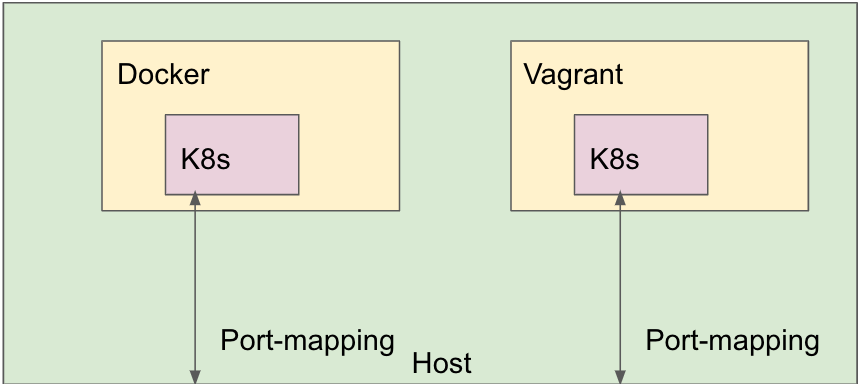
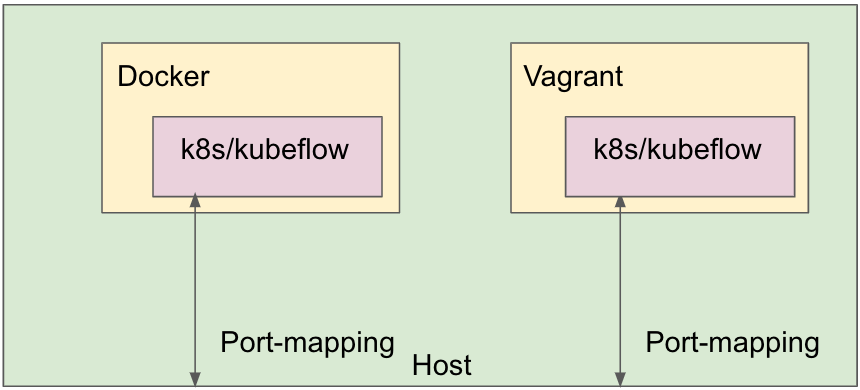
breaking: rename to multikf

Changed region(s): [[0.0, 0.0, 1.0, 1.0], [0.1212, 0.0938, 0.4848, 0.5625], [0.1212, 0.1562, 0.2424, 0.2188]]

diff --git a/cmd/multikf/cmd.go b/cmd/multikf/cmd.go
@@ -1,4 +1,4 @@
-package multikind
+package multikf
 
 import (
 	"errors"
@@ -12,10 +12,10 @@ import (
 	"sigs.k8s.io/kind/pkg/cmd"
 	"sigs.k8s.io/kind/pkg/log"
 
-	"github.com/footprintai/multikind/pkg/machine"
-	_ "github.com/footprintai/multikind/pkg/machine/host"
-	_ "github.com/footprintai/multikind/pkg/machine/vagrant"
-	"github.com/footprintai/multikind/pkg/version"
+	"github.com/footprintai/multikf/pkg/machine"
+	_ "github.com/footprintai/multikf/pkg/machine/host"
+	_ "github.com/footprintai/multikf/pkg/machine/vagrant"
+	"github.com/footprintai/multikf/pkg/version"
 )
 
 var (
@@ -30,9 +30,9 @@ var (
 	kubeconfigPath string // kubeconfig path of a guest machine (default: ./.mulitkind/$machine/kubeconfig)
 
 	rootCmd = &cobra.Command{
-		Use:   "multikind",
-		Short: "a multikind cli tool",
-		Long:  `multikind is a command-line tool which use vagrant and docker to provision k8s single-node cluster.`,
+		Use:   "multikf",
+		Short: "a multikf cli tool",
+		Long:  `multikf is a command-line tool which use vagrant and docker to provision Kubernetes and kubeflow single-node cluster.`,
 		PersistentPreRun: func(cmd *cobra.Command, args []string) {
 			// For cobra + glog flags. Available to all subcommands.
 			goflag.Parse()
@@ -41,7 +41,7 @@ var (
 
 	versionCmd = &cobra.Command{
 		Use:   "version",
-		Short: "version of multikind ",
+		Short: "version of multikf ",
 		RunE: func(cmd *cobra.Command, args []string) error {
 			version.Print()
 			return nil
@@ -270,7 +270,7 @@ func init() {
 	rootCmd.AddCommand(connectCmd)
 	connectCmd.AddCommand(kubeflowCmd)
 
-	rootCmd.PersistentFlags().StringVar(&guestRootDir, "dir", ".multikind", "multikind root dir")
+	rootCmd.PersistentFlags().StringVar(&guestRootDir, "dir", ".multikfdir", "multikf root dir")
 	rootCmd.PersistentFlags().BoolVar(&verbose, "verbose", true, "verbose (default: true)")
 	rootCmd.PersistentFlags().StringVar(&provisionerStr, "provisioner", "docker", "provisioner, possible value: docker and vagrant")
 	addCmd.Flags().IntVar(&cpus, "cpus", 1, "number of cpus allocated to the guest machine")

diff --git a/pkg/machine/host/fs.go b/pkg/machine/host/fs.go
@@ -1,9 +1,9 @@
 package host
 
 import (
-	kfmanifests "github.com/footprintai/multikind/kfmanifests"
-	hosttemplates "github.com/footprintai/multikind/pkg/machine/host/template"
-	templatefs "github.com/footprintai/multikind/pkg/template/fs"
+	kfmanifests "github.com/footprintai/multikf/kfmanifests"
+	hosttemplates "github.com/footprintai/multikf/pkg/machine/host/template"
+	templatefs "github.com/footprintai/multikf/pkg/template/fs"
 	//log "github.com/golang/glog"
 )
 

diff --git a/pkg/machine/vagrant/vagrant.go b/pkg/machine/vagrant/vagrant.go
@@ -7,9 +7,9 @@ import (
 	"os"
 	"path/filepath"
 
-	vagrantclient "github.com/footprintai/multikind/pkg/client/vagrant"
-	machine "github.com/footprintai/multikind/pkg/machine"
-	"github.com/footprintai/multikind/pkg/machine/vagrant/template"
+	vagrantclient "github.com/footprintai/multikf/pkg/client/vagrant"
+	machine "github.com/footprintai/multikf/pkg/machine"
+	"github.com/footprintai/multikf/pkg/machine/vagrant/template"
 	"sigs.k8s.io/kind/pkg/log"
 )
 

diff --git a/pkg/machine/vagrant/fs.go b/pkg/machine/vagrant/fs.go
@@ -1,9 +1,9 @@
 package vagrant
 
 import (
-	"github.com/footprintai/multikind/assets"
-	vagranttemplates "github.com/footprintai/multikind/pkg/machine/vagrant/template"
-	templatefs "github.com/footprintai/multikind/pkg/template/fs"
+	"github.com/footprintai/multikf/assets"
+	vagranttemplates "github.com/footprintai/multikf/pkg/machine/vagrant/template"
+	templatefs "github.com/footprintai/multikf/pkg/template/fs"
 	//log "github.com/golang/glog"
 )
 

diff --git a/pkg/machine/host/hostmachine.go b/pkg/machine/host/hostmachine.go
@@ -4,8 +4,8 @@ import (
 	"fmt"
 	"path/filepath"
 
-	machine "github.com/footprintai/multikind/pkg/machine"
-	"github.com/footprintai/multikind/pkg/machine/host/template"
+	machine "github.com/footprintai/multikf/pkg/machine"
+	"github.com/footprintai/multikf/pkg/machine/host/template"
 	"sigs.k8s.io/kind/pkg/log"
 )
 

diff --git a/pkg/client/vagrant/vagrant_cli.go b/pkg/client/vagrant/vagrant_cli.go
@@ -5,7 +5,7 @@ import (
 	"io/ioutil"
 
 	govagrant "github.com/bmatcuk/go-vagrant"
-	fssh "github.com/footprintai/multikind/pkg/ssh"
+	fssh "github.com/footprintai/multikf/pkg/ssh"
 	log "github.com/golang/glog"
 	"golang.org/x/crypto/ssh"
 )

diff --git a/pkg/machine/vagrant/fs_test.go b/pkg/machine/vagrant/fs_test.go
@@ -6,7 +6,7 @@ import (
 	"os"
 	"testing"
 
-	"github.com/footprintai/multikind/pkg/machine/vagrant/template"
+	"github.com/footprintai/multikf/pkg/machine/vagrant/template"
 	"github.com/spf13/afero"
 	"github.com/stretchr/testify/assert"
 )

diff --git a/pkg/machine/vagrant/template/vagrantfile_template.go b/pkg/machine/vagrant/template/vagrantfile_template.go
@@ -5,7 +5,7 @@ import (
 	"html/template"
 	"io"
 
-	pkgtemplate "github.com/footprintai/multikind/pkg/template"
+	pkgtemplate "github.com/footprintai/multikf/pkg/template"
 )
 
 func NewDefaultVagrantTemplate() *DefaultVagrantFileTemplate {

diff --git a/pkg/machine/host/template/kind_template.go b/pkg/machine/host/template/kind_template.go
@@ -5,7 +5,7 @@ import (
 	"html/template"
 	"io"
 
-	pkgtemplate "github.com/footprintai/multikind/pkg/template"
+	pkgtemplate "github.com/footprintai/multikf/pkg/template"
 )
 
 func NewKindTemplate() *KindFileTemplate {

diff --git a/pkg/machine/vagrant/template/kind_template.go b/pkg/machine/vagrant/template/kind_template.go
@@ -5,7 +5,7 @@ import (
 	"html/template"
 	"io"
 
-	pkgtemplate "github.com/footprintai/multikind/pkg/template"
+	pkgtemplate "github.com/footprintai/multikf/pkg/template"
 )
 
 func NewKindTemplate() *KindFileTemplate {

diff --git a/pkg/machine/cpuinfo_test.go b/pkg/machine/cpuinfo_test.go
@@ -5,7 +5,7 @@ import (
 
 	"github.com/stretchr/testify/assert"
 
-	"github.com/footprintai/multikind/pkg/machine/testdata"
+	"github.com/footprintai/multikf/pkg/machine/testdata"
 )
 
 func TestCpuInfo(t *testing.T) {

diff --git a/pkg/machine/meminfo_test.go b/pkg/machine/meminfo_test.go
@@ -5,7 +5,7 @@ import (
 
 	"github.com/stretchr/testify/assert"
 
-	"github.com/footprintai/multikind/pkg/machine/testdata"
+	"github.com/footprintai/multikf/pkg/machine/testdata"
 )
 
 func TestMemInfo(t *testing.T) {
